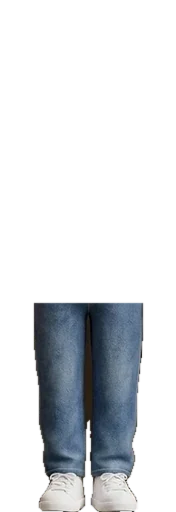
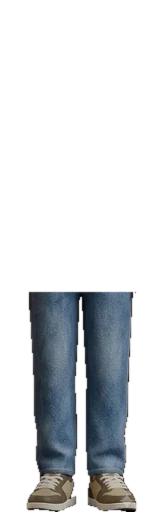
New art for heeyeon, sunhye and the branch manager
Claude-Session: https://claude.ai/code/session_01JfU8TWwwa5422dqTjREWKh

Changed region(s): [[0.1543, 0.5625, 0.8642, 1.0], [0.2778, 0.8125, 0.3395, 0.8438]]

diff --git a/index.html b/index.html
@@ -126,7 +126,7 @@ const CAST={
  s1:     {name:'주임님',fig:'approver'},
  s2:     {name:'사수님',fig:'senior'},
  lead:   {name:'팀장님',fig:'lead'},
- boss:   {name:'지사장님',top:0x2b2e38,pants:0x2b2e38,hair:0x9a9a9a,hairStyle:'part',tie:0x7a2a3b,glasses:true,scale:.88},
+ boss:   {name:'지사장님',fig:'boss'},
  shiun:  {name:'시운 주임님',fig:'shiun'},
  heeyeon:{name:'희연 주임님',fig:'heeyeon'},
  sunhye: {name:'선혜 주임님',fig:'sunhye'}
@@ -293,7 +293,7 @@ desk(-12,ROW_Z,0,{mug:0xf2b544,plant:true,noChair:true});sign('팀장','#3b4458'
 const GIRLS_Z=14;
 desk(-16,GIRLS_Z,0,{mug:0xff9ad5,plant:true});desk(-8,GIRLS_Z,0,{mug:0x1e1f24});
 // branch manager's office
-{const d=desk(0,-18,Math.PI,{mug:0x7a2a6b,noChair:true});chair(0,-19.4,0,0x5a2a2a);mesh(RB(4.6,.2,2.2,.08),M(0x6b4a34),0,1.52,-18);
+{const d=desk(0,-18,Math.PI,{mug:0x7a2a6b,noChair:true});mesh(RB(4.6,.2,2.2,.08),M(0x6b4a34),0,1.52,-18);
   mesh(RB(5,1.1,1.6,.4),M(0x8a3b3b),-5,.55,-21.5);mesh(RB(5,1.4,.5,.2),M(0x8a3b3b),-5,1.2,-22.4);plant(5.5,-22,1.1);}
 // meeting room: big table + TV dashboard
 {mesh(RB(8,.2,4,.9),deskTop,21,1.5,-15);mesh(new THREE.CylinderGeometry(.25,.4,1.4,10),deskLeg,21,.7,-15);
@@ -386,8 +386,9 @@ const FIGS={
  me:{w:167,hip:.6406,cx:.497,l0:.1796,l1:.8204,h:3.05},
  senior:{w:190,hip:.6445,cx:.4947,l0:.1684,l1:.8526,h:2.85},
  shiun:{w:149,hip:.5605,cx:.4966,l0:.1678,l1:.8591,h:2.95},
- heeyeon:{w:176,hip:.5996,cx:.4943,l0:.1932,l1:.8125,h:2.98},
- sunhye:{w:156,hip:.6094,cx:.4487,l0:.109,l1:.7949,h:2.93}};
+ heeyeon:{w:162,hip:.5781,cx:.4938,l0:.1667,l1:.8395,h:2.98},
+ sunhye:{w:154,hip:.5508,cx:.5,l0:.1883,l1:.8247,h:2.93},
+ boss:{w:201,hip:.6309,cx:.4925,l0:.1891,l1:.8109,h:3.3}};
 const texLoader=new THREE.TextureLoader();
 const ltex=src=>{const t=texLoader.load(src);t.encoding=THREE.sRGBEncoding;t.anisotropy=8;return t;};
 function figure(key){
@@ -413,7 +414,7 @@ function figure(key){
   g.userData={fig:true,card,legs,top:Hh,scale:.85,breath:Math.random()*6};scene.add(g);return g;}
 const hero=figure('me');hero.visible=false;
 const PANTRY={shiun:[15.4,17.4],heeyeon:[18,18.4],sunhye:[20.6,17.4]};
-const SEATS={s1:[-4,ROW_Z+1.7,0],s2:[4,ROW_Z+1.7,0],lead:[-12,ROW_Z+1.7,0],boss:[0,-19.4,0],shiun:[...PANTRY.shiun,0],heeyeon:[...PANTRY.heeyeon,0],sunhye:[...PANTRY.sunhye,0]};
+const SEATS={s1:[-4,ROW_Z+1.7,0],s2:[4,ROW_Z+1.7,0],lead:[-12,ROW_Z+1.7,0],boss:[3.4,-17.4,0],shiun:[...PANTRY.shiun,0],heeyeon:[...PANTRY.heeyeon,0],sunhye:[...PANTRY.sunhye,0]};
 const P={me:hero};const seatY=id=>CAST[id].fig?0:.35*CAST[id].scale/.85;
 Object.entries(SEATS).forEach(([id,[x,z,r]])=>{let g;const c=CAST[id];
   if(c.fig){g=figure(c.fig);g.position.set(x,0,z);}else{g=person(c);g.position.set(x,seatY(id),z);g.rotation.y=r;g.userData.seated=true;g.userData.legs.forEach(l=>l.rotation.x=-1.4);}
